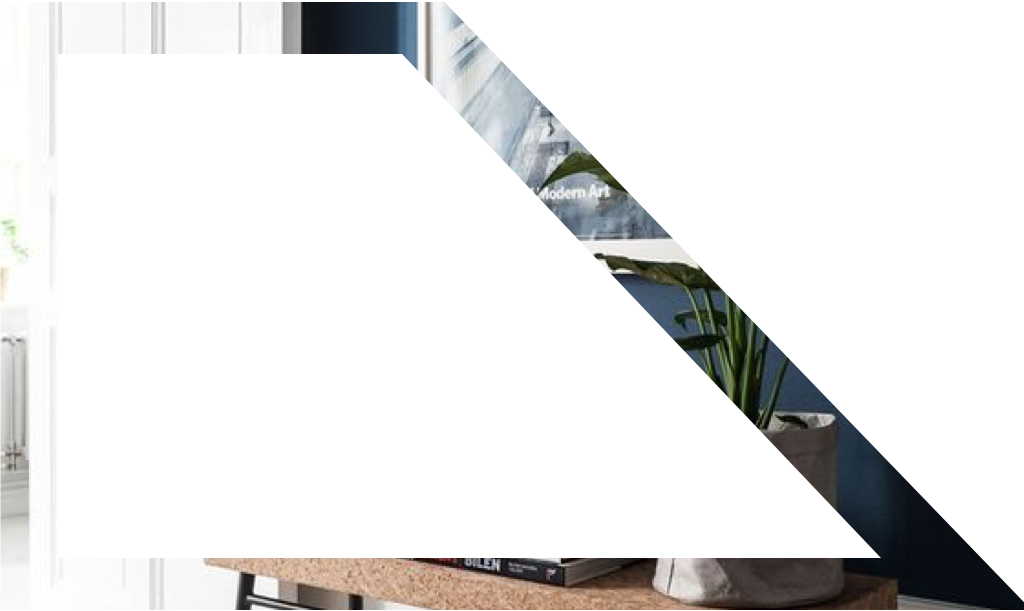
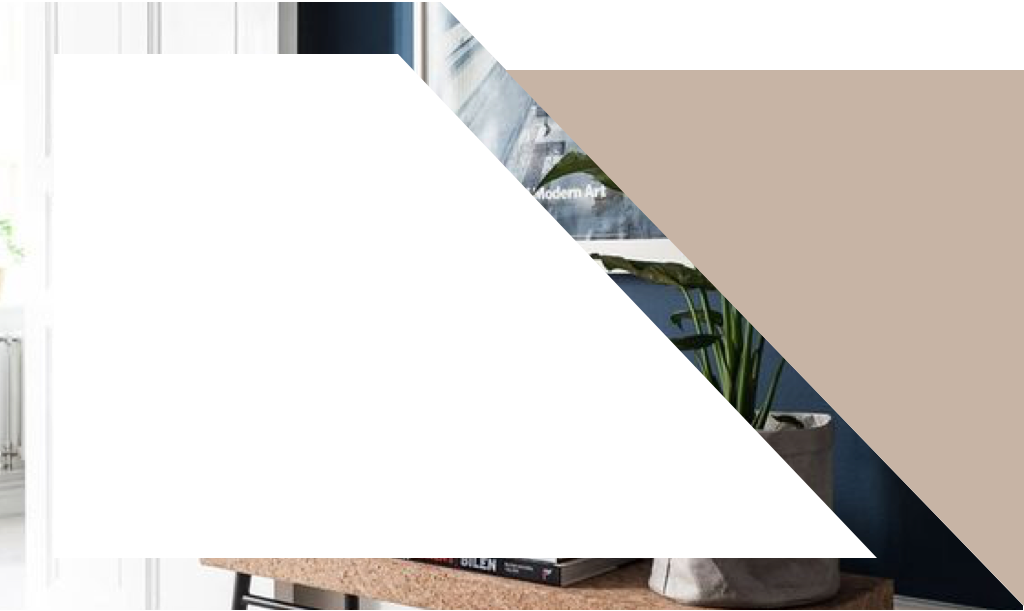
Added Images into page

diff --git a/06 zen garden/style.css b/06 zen garden/style.css
@@ -22,6 +22,11 @@ body {
     font-weight: 400;
     font-style: normal;
     line-height: 25px;
+    background-image: url(Header%20image.png) ;
+    background-repeat: no-repeat ;
+    background-color: rgba(30, 87, 108, 1) ;
+    background-size: 1000px 620px ;
+    
     /*    background-color: rgba(30, 87, 108, 1);*/
 }
 abbr {
@@ -181,7 +186,7 @@ li:link {
     visibility: hidden ;
 }
 .preamble {
-    background-color: #ffffff ;
+/*    background-color: #ffffff ;*/
 }
 #zen-preamble p {
     color: #000 ;
@@ -195,8 +200,10 @@ li:link {
 .preamble {
     display: block ;
     padding: 50px ;
+/*
     border-top: 25px solid #C7B4A5 ;
     border-right: 25px solid #C7B4A5 ;
+*/
     right:inherit ;
 
 }
@@ -210,6 +217,12 @@ li:link {
 footer {
     visibility: hidden ;
 }
+.sidebar {
+    background-image: url(footer%20image.png);
+    background-repeat: no-repeat ; 
+    background-size: 930px 550px ;
+    background-color: #C7B4A5 ;
+}
 #design-selection p {
     color: #000 ;
 }
@@ -217,10 +230,10 @@ footer {
     padding-left: 50px ;
 }
 .summary {
-    background-color: rgba(30, 87, 108, 1) ;
+/*    background-color: rgba(30, 87, 108, 1) ;*/
 }
 .intro {
-    background-color: rgba(30, 87, 108, 1) ;
+/*    background-color: rgba(30, 87, 108, 1) ;*/
     padding-left: 50px ;
 }
 .benefits {
@@ -233,7 +246,7 @@ footer {
     padding-bottom: 20px ;
 }
 .design-archives {
-    background-color: #C7B4A5 ;
+/*    background-color: #C7B4A5 ;*/
     color: #FFFFFF ;
     padding-left: 50px ;
 }
